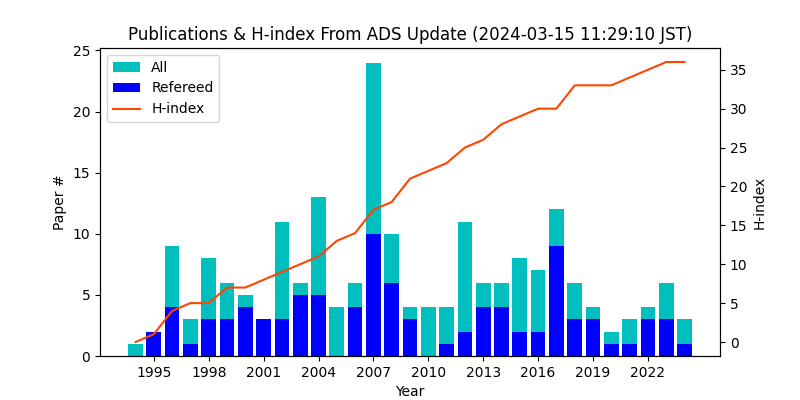
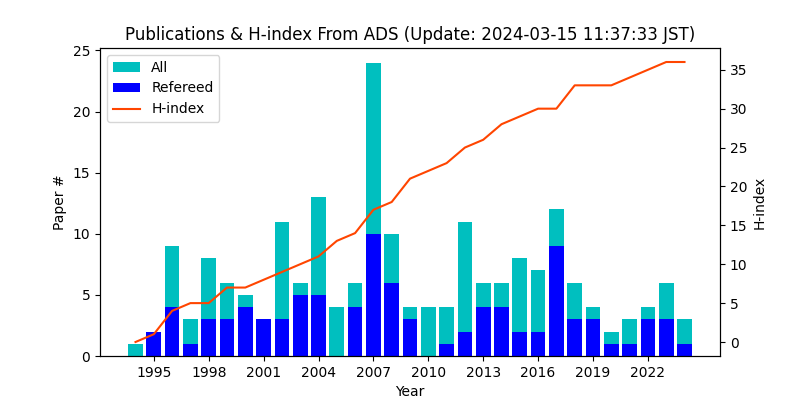
Revise publ/alma_paper.html and pubHind.png

Changed region(s): [[0.1562, 0.06, 0.875, 0.12]]

diff --git a/alma_paper.html b/alma_paper.html
@@ -105,7 +105,7 @@ www.typeandgrids.com
 			<!--Notice: The "Powered by Type & Grids" link in the footer is required in the Free version. Upgrade to the Pro version if you would like to remove it. (www.typeandgrids.com/pirates) -->
 			<li>Powered by Type &amp; Grids</li><li>Update:
 
-2024-03-15 11:29:03
+2024-03-15 11:37:27
                 [JST] </li>
 		</ul>
 	</footer>

diff --git a/publ.html b/publ.html
@@ -89,7 +89,7 @@ www.typeandgrids.com
 			<!--Notice: The "Powered by Type & Grids" link in the footer is required in the Free version. Upgrade to the Pro version if you would like to remove it. (www.typeandgrids.com/pirates) -->
 			<li>Powered by Type &amp; Grids</li><li>Update:
 
-2024-03-15 11:28:40
+2024-03-15 11:37:03
                 [JST] </li>
 		</ul>
 	</footer>
